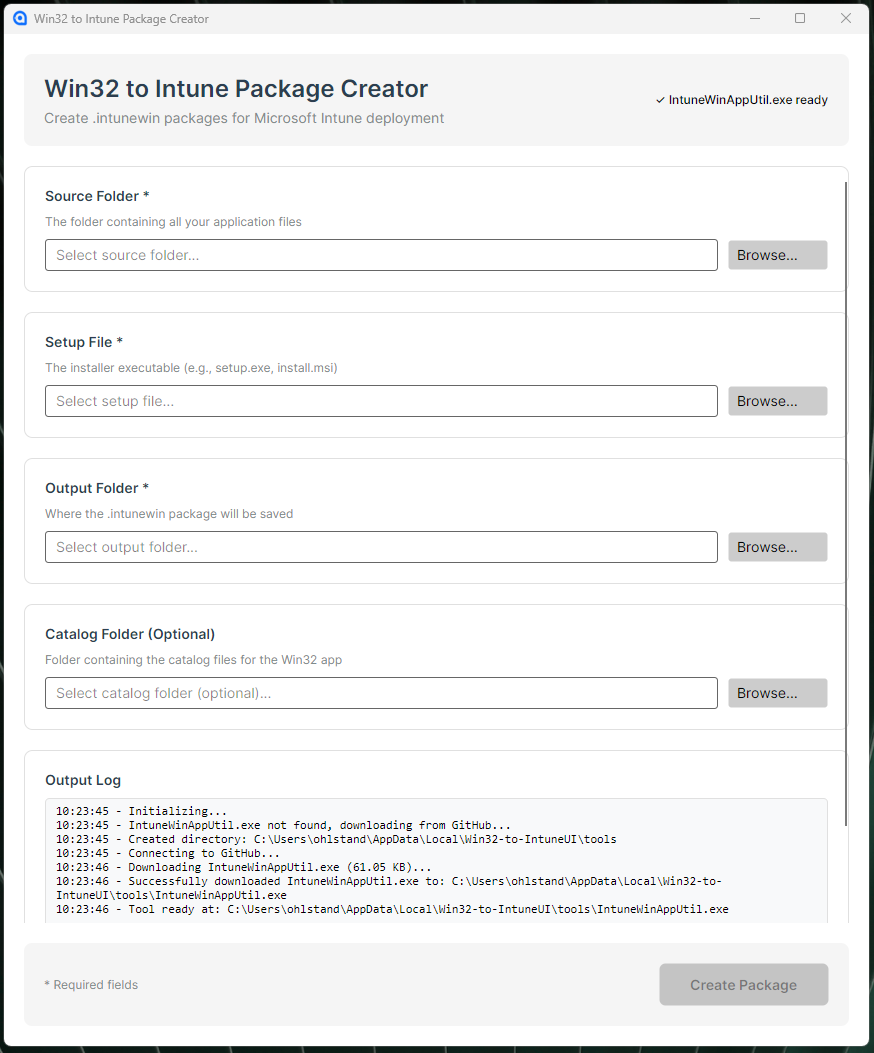
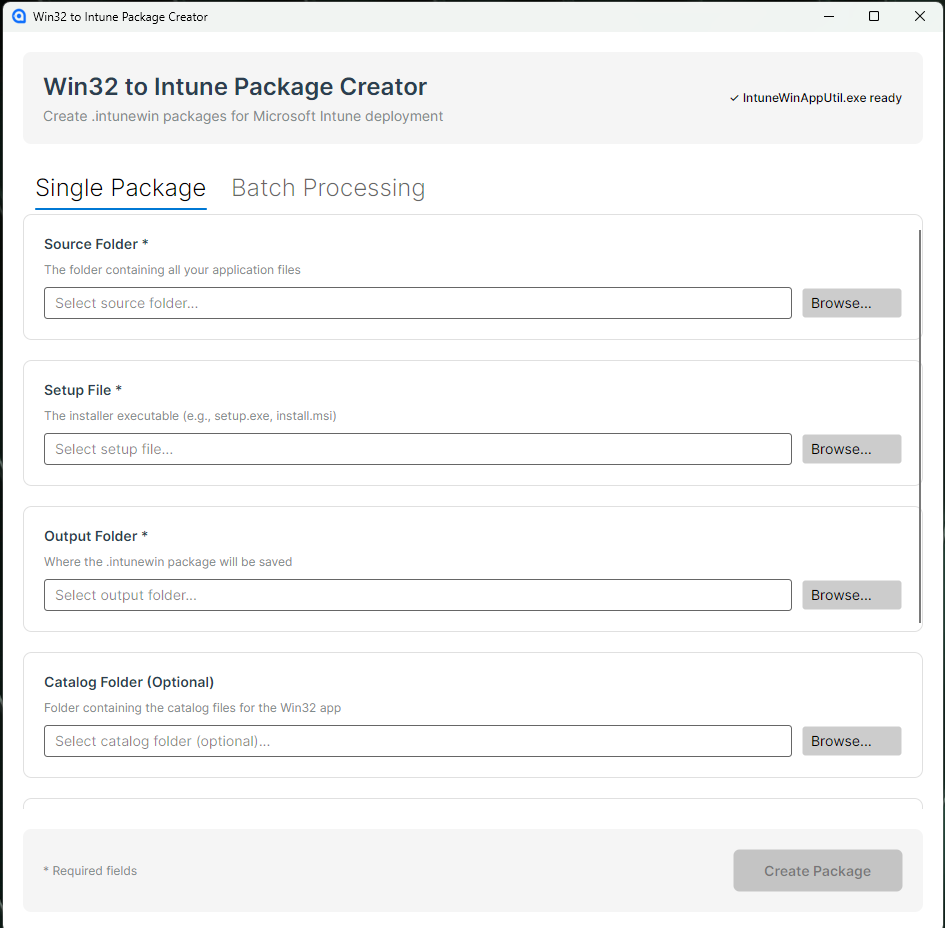
update: Readme

diff --git a/README.md b/README.md
@@ -4,26 +4,46 @@ An app built with Avalonia for creating `.intunewin` packages for Microsoft Intu
 
 ## Requirements
 
-.NET 10  
-https://dotnet.microsoft.com/en-us/download
-
+.NET 10 for the UI   
+https://dotnet.microsoft.com/en-us/download   
 Just download the SDK and install it. Nothing else needed.
+
+.NET Framework >= 4.7.2 for MS Prep Tool   
+https://github.com/microsoft/Microsoft-Win32-Content-Prep-Tool
+
+
 
 ## How It Works
 
 The application automatically downloads `IntuneWinAppUtil.exe` from Microsoft's repo on first launch. The tool is stored locally and does not need to be downloaded again.
 
+**There is two modes:**
+
+### Single Package Mode
+
 <img src="./img/img01.png" width="550" height="">
 
-## Usage
+Create individual `.intunewin` packages one at a time:
 
 1. Launch the application
 2. Select the source folder containing your application files
 3. Select the setup file (installer executable or MSI)
 4. Select the output folder where the package will be saved
-5. Click "Create Package"
+5. Optionally, select a catalog folder
+6. Click "Create Package"
 
-The application will create a `.intunewin` file in the output folder.
+### Batch Processing Mode
+
+<img src="./img/img02.png" width="550" height="">
+
+Process multiple applications at once:
+
+1. Select a parent folder containing subfolders with different applications
+2. Click "Scan Folders" to detect applications
+3. Select an output folder for all packages
+4. Click "Process Batch" to create all packages
+
+The application will create `.intunewin` files in the specified output folder.
 
 ## Tool Storage
 
@@ -32,9 +52,9 @@ The downloaded tool is stored at:
 
 ## Building
 
-```bash
-dotnet restore
-dotnet build
+```
+git clone https://github.com/JohnKesko/Win32-to-IntuneUI.git
+cd Win32-to-IntuneUI
 dotnet run --project Win32-to-IntuneUI/Win32-to-IntuneUI.csproj
 ```
 
